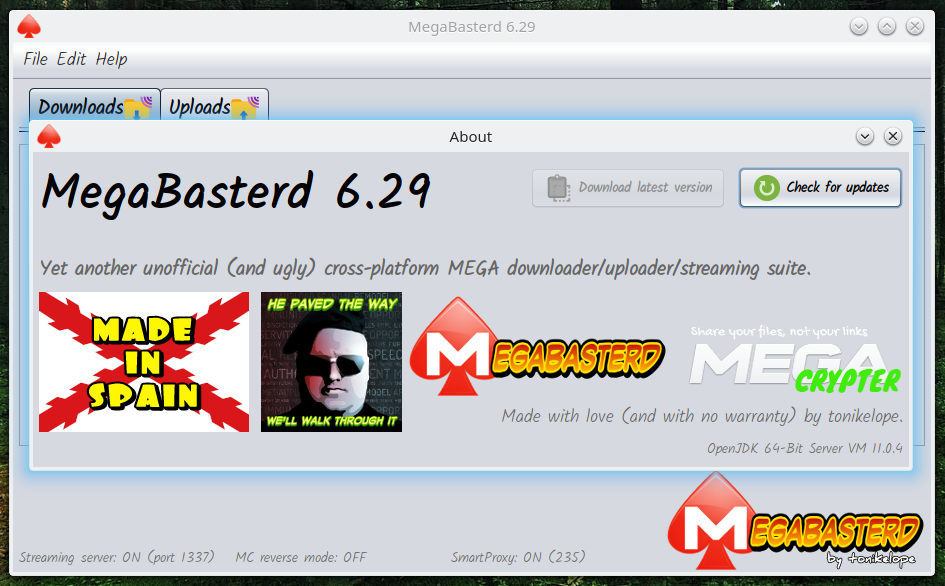
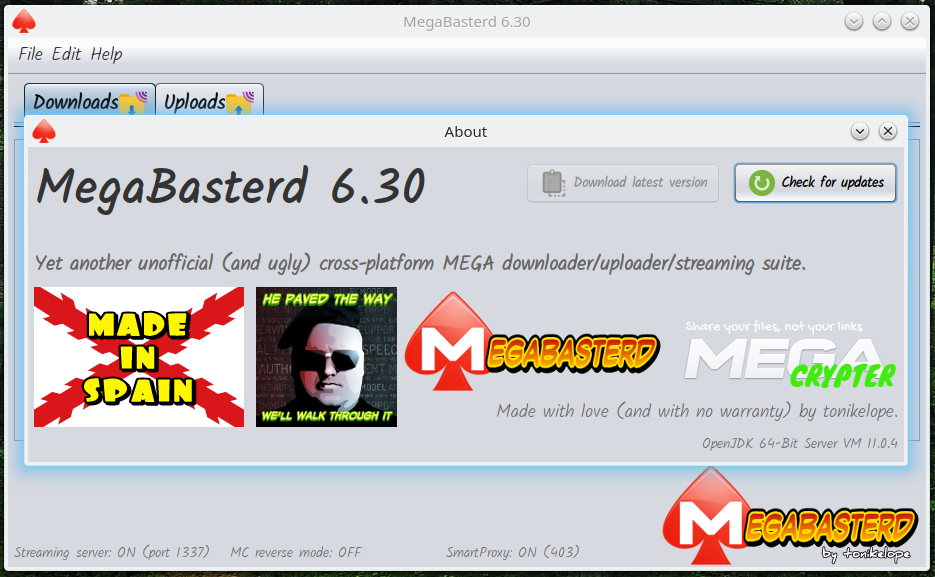
6.30
-Fix buttons open folder and copy link

(cherry picked from commit 72e48a384f7fd8c8c8e1065f4e56d9250857d3c3)

Changed region(s): [[0.0, 0.0, 1.0, 1.0], [0.4652, 0.4991, 0.4963, 0.5303]]

diff --git a/src/main/java/com/tonikelope/megabasterd/Download.java b/src/main/java/com/tonikelope/megabasterd/Download.java
@@ -519,8 +519,8 @@ public final class Download implements Transference, Runnable, SecureSingleThrea
                 getView().getQueue_down_button().setVisible(false);
                 getView().getQueue_up_button().setVisible(false);
                 getView().getClose_button().setVisible(false);
-                getView().getCopy_link_button().setVisible(false);
-                getView().getOpen_folder_button().setVisible(false);
+                getView().getCopy_link_button().setVisible(true);
+                getView().getOpen_folder_button().setVisible(true);
             }
         });
 

diff --git a/src/main/java/com/tonikelope/megabasterd/MainPanel.java b/src/main/java/com/tonikelope/megabasterd/MainPanel.java
@@ -50,7 +50,7 @@ import javax.swing.UIManager;
  */
 public final class MainPanel {
 
-    public static final String VERSION = "6.29";
+    public static final String VERSION = "6.30";
     public static final int THROTTLE_SLICE_SIZE = 16 * 1024;
     public static final int DEFAULT_BYTE_BUFFER_SIZE = 16 * 1024;
     public static final int STREAMER_PORT = 1337;
